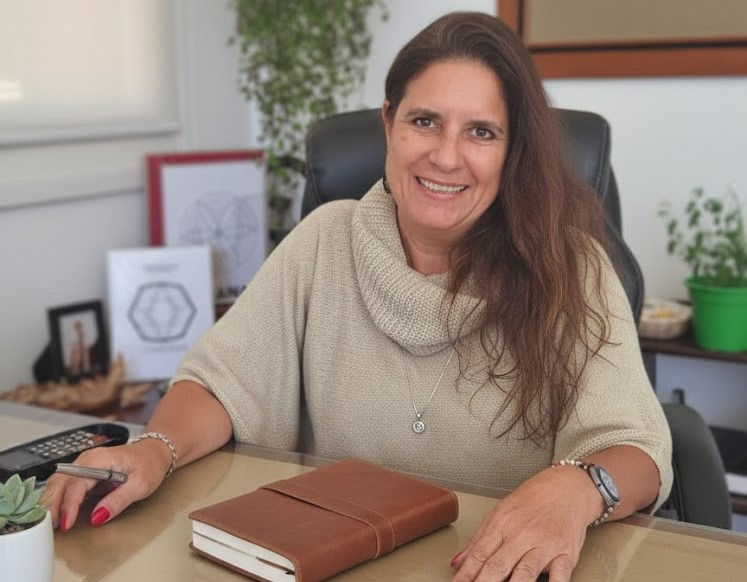
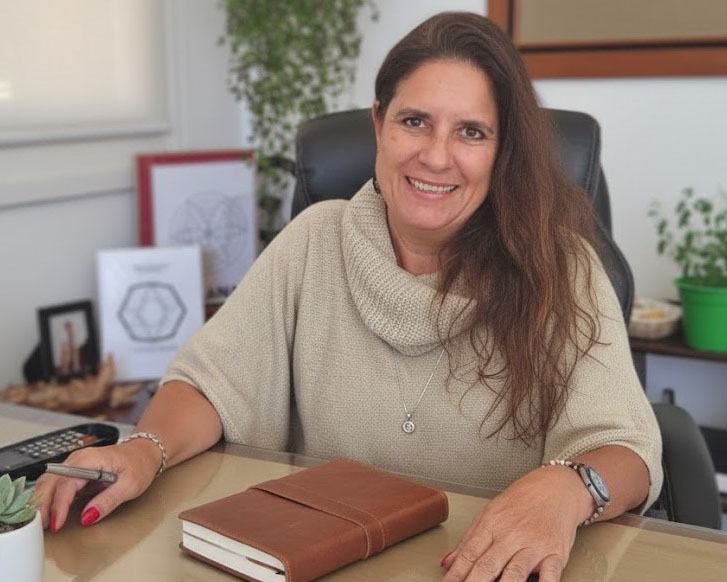
Add service images and update contact info
Add multiple service image assets and replace generic placeholders in index.html with specific images (e.g. psicoterapia-individual, humanoterapia, reiki, cromoterapia, terapias florais, radiestesia, meditacao, HumanoSense). Update photo-header.jpg and comment out the "Psicoterapia Grupal" card. Adjust .service-card__image aspect-ratio from 16/9 to 10/8 in styles.css. Update contact details: WhatsApp number, Instagram handle, and the WhatsApp link message.

diff --git a/index.html b/index.html
@@ -129,14 +129,14 @@
         <div class="service-grid">
           <div data-animate="card">
             <article class="service-card h-100">
-              <img class="service-card__image" src="img/photo-header.jpg" alt="Imagem do serviço Psicoterapia Individual">
+              <img class="service-card__image" src="img/psicoterapia-individual.jpg" alt="Imagem do serviço Psicoterapia Individual">
               <div class="service-card__content p-4">
               <h3>Psicoterapia Individual</h3>
               <p>Terapia da fala, com técnicas de investigação do inconsciente. Um espaço protegido para compreender experiências e desenvolver formas mais saudáveis de viver.</p>
               </div>
             </article>
           </div>
-          <div data-animate="card">
+          <!--div data-animate="card">
             <article class="service-card h-100">
               <img class="service-card__image" src="img/photo-header.jpg" alt="Imagem do serviço Psicoterapia Grupal">
               <div class="service-card__content p-4">
@@ -144,7 +144,7 @@
               <p>Grupo de até 7 integrantes que compartilham experiências, refletem sobre seus padrões de funcionamento e desenvolvem novas formas de se relacionar consigo e com os outros.</p>
               </div>
             </article>
-          </div>
+          </div-->
           <div data-animate="card">
             <article class="service-card h-100">
               <img class="service-card__image" src="img/photo-header.jpg" alt="Imagem do serviço Círculo da Vida">
@@ -156,7 +156,7 @@
           </div>
           <div data-animate="card">
             <article class="service-card h-100">
-              <img class="service-card__image" src="img/photo-header.jpg" alt="Imagem do serviço Humanoterapeuta">
+              <img class="service-card__image" src="img/humanoterapia.jpg" alt="Imagem do serviço Humanoterapeuta">
               <div class="service-card__content p-4">
               <h3>Humanoterapeuta</h3>
               <p>Metodologia de bloco de tratamento, com começo, meio e fim, investigação na mesa quântica e tratamento energético espiritual nos campos mental, emocional e físico.</p>
@@ -165,7 +165,7 @@
           </div>
           <div data-animate="card">
             <article class="service-card h-100">
-              <img class="service-card__image" src="img/photo-header.jpg" alt="Imagem do serviço HumanoSense">
+              <img class="service-card__image" src="img/humanosense.jpg" alt="Imagem do serviço HumanoSense">
               <div class="service-card__content p-4">
               <h3>HumanoSense</h3>
               <p>Terapia breve (até 3 sessões) de limpeza profunda e criação de novas e sadias possibilidades.</p>
@@ -174,7 +174,7 @@
           </div>
           <div data-animate="card">
             <article class="service-card h-100">
-              <img class="service-card__image" src="img/photo-header.jpg" alt="Imagem do serviço Radiestesia">
+              <img class="service-card__image" src="img/radiestesia.jpg" alt="Imagem do serviço Radiestesia">
               <div class="service-card__content p-4">
               <h3>Radiestesia</h3>
               <p>Através do pêndulo e da mesa de Radeiestesia, investiga-se e mede as energias do corpo humano, limpando, harmonizando e curando todos os campos.</p>
@@ -183,7 +183,7 @@
           </div>
           <div data-animate="card">
             <article class="service-card h-100">
-              <img class="service-card__image" src="img/photo-header.jpg" alt="Imagem do serviço Reiki">
+              <img class="service-card__image" src="img/reiki.jpg" alt="Imagem do serviço Reiki">
               <div class="service-card__content p-4">
               <h3>Reiki</h3>
               <p>Energia universal da vida com a imposição das mãos, promovendo equilíbrio físico, emocional e energético.</p>
@@ -192,7 +192,7 @@
           </div>
           <div data-animate="card">
             <article class="service-card h-100">
-              <img class="service-card__image" src="img/photo-header.jpg" alt="Imagem do serviço Cromoterapia">
+              <img class="service-card__image" src="img/cromoterapia.jpg" alt="Imagem do serviço Cromoterapia">
               <div class="service-card__content p-4">
               <h3>Cromoterapia</h3>
               <p>Equilibra o campo Bioenergético, através da reposição, restauração e regeneração, fortalecendo o sistema imunológico, equilibrando os chakras através das cores.</p>
@@ -201,7 +201,7 @@
           </div>
           <div data-animate="card">
             <article class="service-card h-100">
-              <img class="service-card__image" src="img/photo-header.jpg" alt="Imagem do serviço Florais Deuseluz">
+              <img class="service-card__image" src="img/terapia-florais.jpg" alt="Imagem do serviço Florais Deuseluz">
               <div class="service-card__content p-4">
               <h3>Florais Deuseluz</h3>
               <p>São essência vibratórias a partir dos sete elementos da natureza, que visa auxiliar durante todo o processo.</p>
@@ -210,7 +210,7 @@
           </div>
           <div data-animate="card">
             <article class="service-card h-100">
-              <img class="service-card__image" src="img/photo-header.jpg" alt="Imagem do serviço Meditação">
+              <img class="service-card__image" src="img/meditacao.jpg" alt="Imagem do serviço Meditação">
               <div class="service-card__content p-4">
               <h3>Meditação</h3>
               <p>Através da respiração, entramos em relaxamento e estado de consciência mais sereno, para autoconhecimento e equilíbrio vital.</p>
@@ -364,9 +364,9 @@
             <h2 class="section-title section-title--animated mb-3" data-animate="title">Contato</h2>
             <p class="text-muted">Estou aqui para esclarecer dúvidas e iniciar uma conversa sobre seu processo de bem-estar.</p>
             <ul class="list-unstyled contact-list mt-4">
-              <li><strong>WhatsApp:</strong> (11) 99999-9999</li>
+              <li><strong>WhatsApp:</strong> (11) 99103-8112</li>
               <li><strong>E-mail:</strong> contato@germanadorsi.com.br</li>
-              <li><strong>Instagram:</strong> @germana.dorsi</li>
+              <li><strong>Instagram:</strong> @ser_emluz</li>
               <li><strong>Atendimento:</strong> online e presencial</li>
             </ul>
           </div>
@@ -375,7 +375,7 @@
               <h3 class="h4 mb-3">Fale comigo agora</h3>
               <p class="text-muted mb-4">O canal mais rápido é o WhatsApp para agendamento e dúvidas iniciais.</p>
               <div class="d-flex flex-column flex-sm-row gap-3">
-                <a class="btn btn-brand" href="https://wa.me/5511999999999?text=Olá!%20Gostaria%20de%20saber%20mais" target="_blank" rel="noopener noreferrer">Iniciar conversa</a>
+                <a class="btn btn-brand" href="https://wa.me/5511991038112?text=Olá!%20Gostaria%20de%20saber%20mais%20sobre%20a%20consulta" target="_blank" rel="noopener noreferrer">Iniciar conversa</a>
                 <a class="btn btn-outline-brand" href="mailto:contato@germanadorsi.com.br">Enviar e-mail</a>
               </div>
             </div>

diff --git a/css/styles.css b/css/styles.css
@@ -156,7 +156,7 @@ body {
 
 .service-card__image {
   width: 100%;
-  aspect-ratio: 16 / 9;
+  aspect-ratio: 10 / 8;
   object-fit: cover;
 }
 
